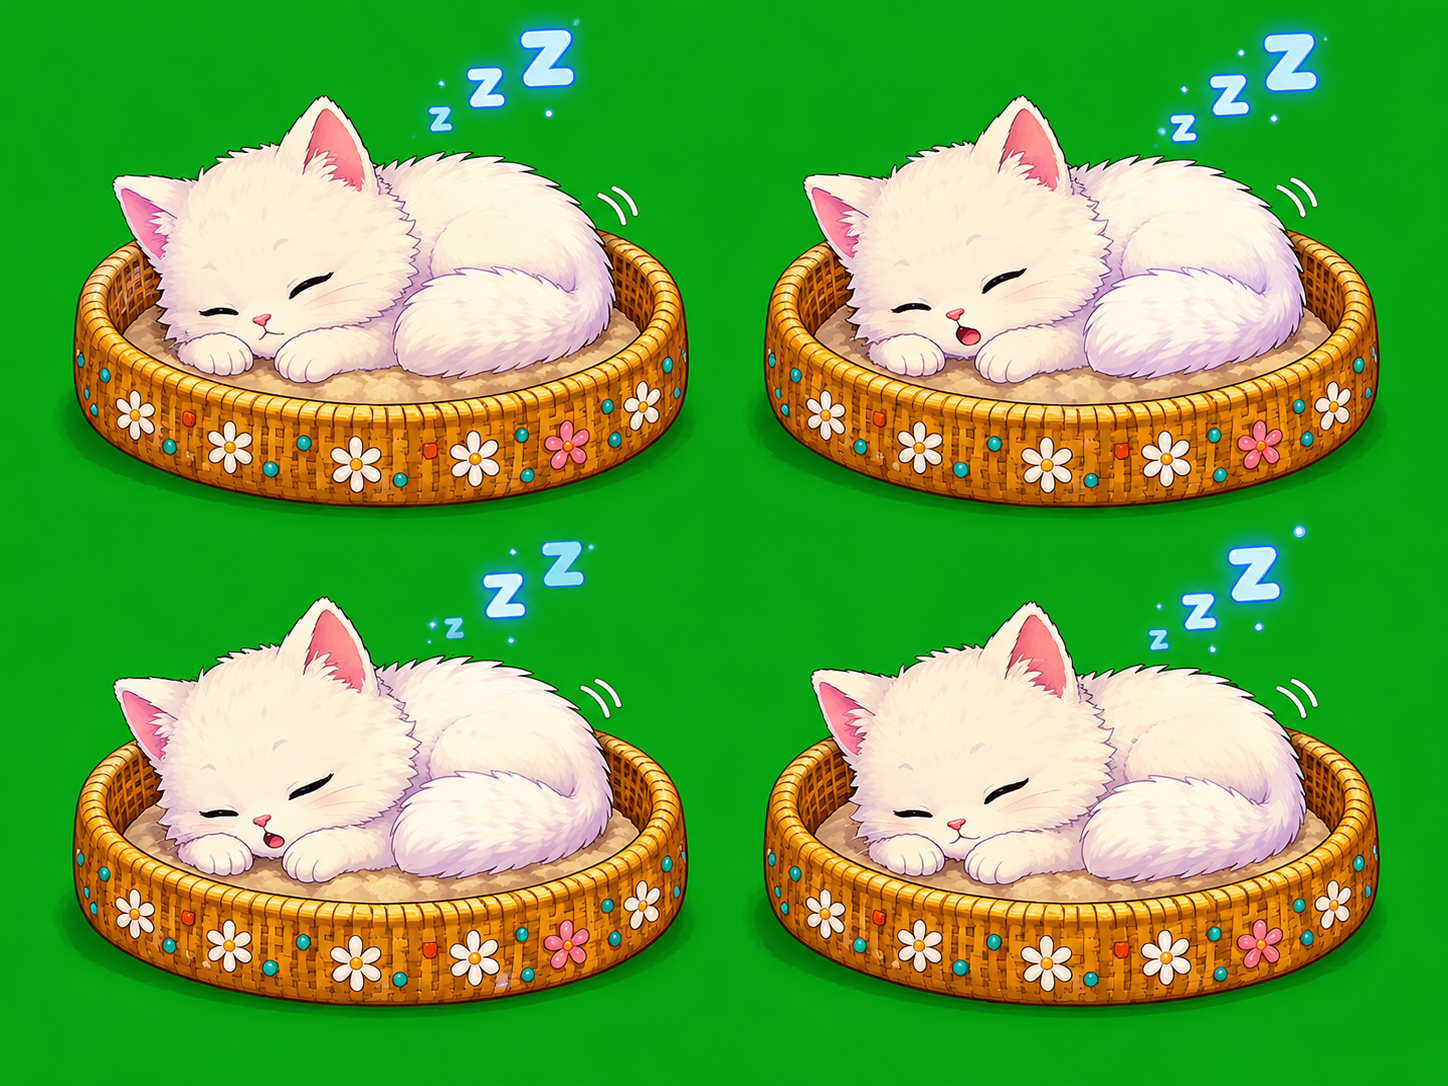
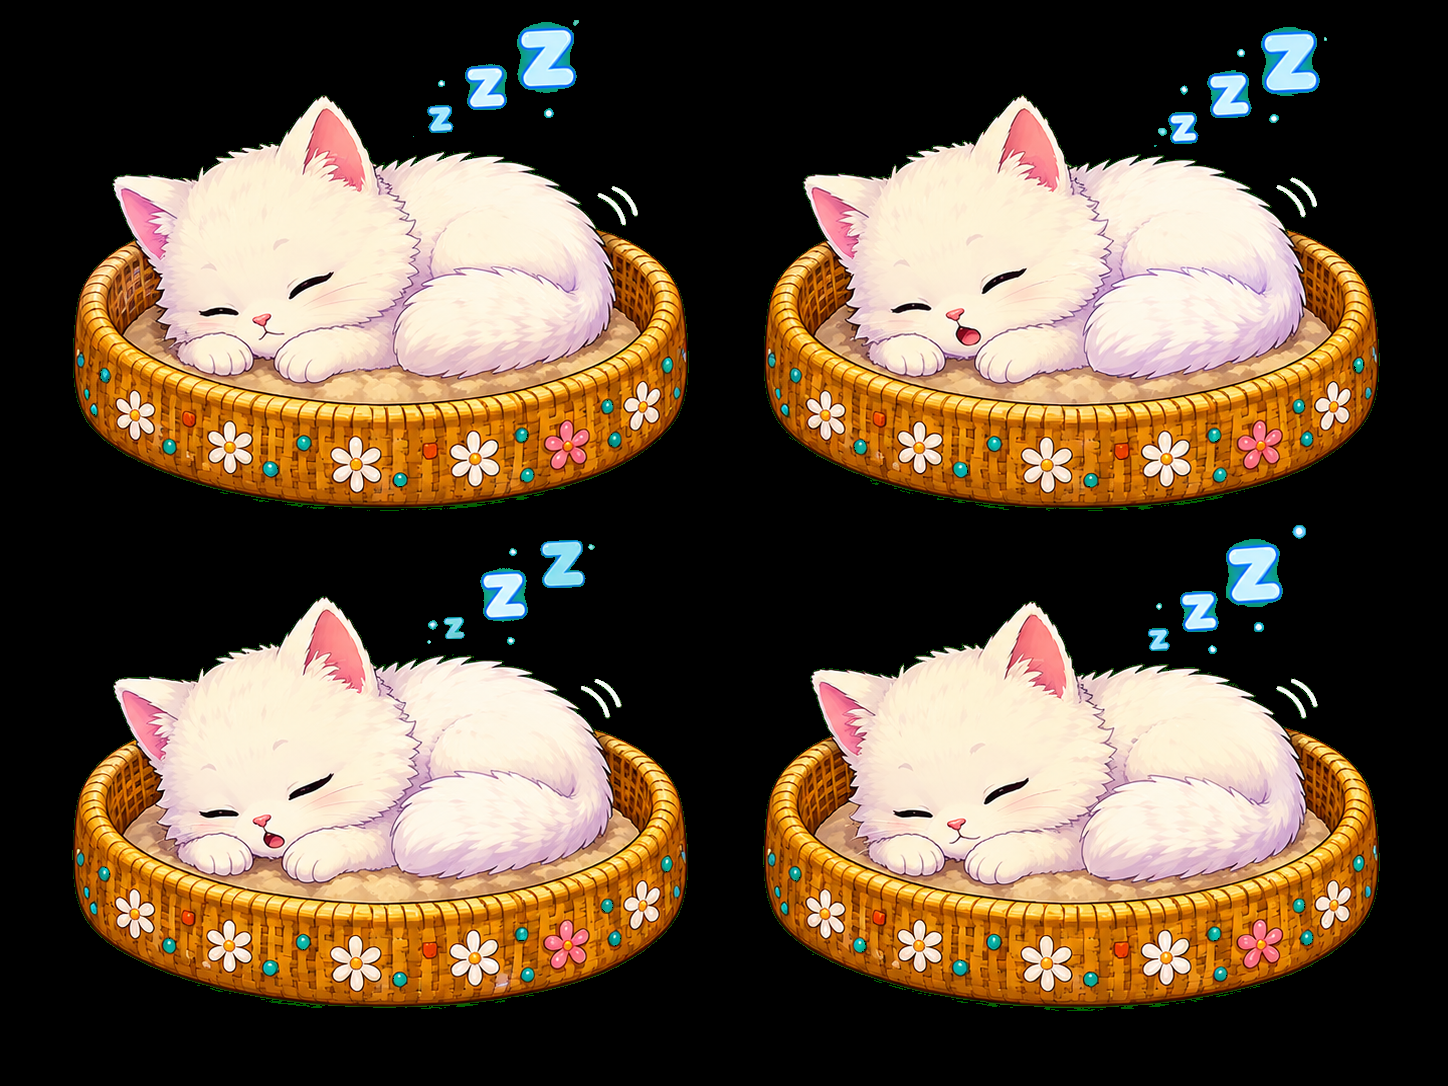
Fix: remove chromaKey JS (caused crash), pre-process sleep.png instead
Removed the runtime removeChromaKey function that was crashing the game.
Instead, processed sleep.png offline to have transparent background.

diff --git a/index.html b/index.html
@@ -325,7 +325,7 @@ const spriteConfigs = {
   eat:      { src: 'assets/eat.png', cols: 4, rows: 2, frames: 4, speed: 300, scale: 1.0 },
   drink:    { src: 'assets/drink.png', cols: 4, rows: 2, frames: 4, speed: 300, scale: 1.0 },
   play:     { src: 'assets/play.png', cols: 4, rows: 3, frames: 8, speed: 420, scale: 1.35 },
-  sleep:    { src: 'assets/sleep.png', cols: 2, rows: 2, frames: 2, speed: 800, scale: 1.0, chromaKey: true },
+  sleep:    { src: 'assets/sleep.png', cols: 2, rows: 2, frames: 2, speed: 800, scale: 1.0 },
   walk:     { src: 'assets/walk.png', cols: 4, rows: 2, frames: 4, speed: 180, scale: 1.0 },
   roll:     { src: 'assets/roll.png', cols: 4, rows: 2, frames: 4, speed: 250, scale: 1.0 },
   pickedup: { src: 'assets/pickedup.png', cols: 4, rows: 1, frames: 2, speed: 800, scale: 0.55 },
@@ -360,32 +360,11 @@ function onAssetError(name) {
 bgImg.onload = onAssetLoad;
 bgImg.onerror = () => onAssetError('bg.png');
 
-function removeChromaKey(img) {
-  const c = document.createElement('canvas');
-  c.width = img.width;
-  c.height = img.height;
-  const cx = c.getContext('2d');
-  cx.drawImage(img, 0, 0);
-  const data = cx.getImageData(0, 0, c.width, c.height);
-  const d = data.data;
-  for (let i = 0; i < d.length; i += 4) {
-    const r = d[i], g = d[i+1], b = d[i+2];
-    if (g > 100 && g > r * 1.4 && g > b * 1.4) {
-      d[i+3] = 0;
-    }
-  }
-  cx.putImageData(data, 0, 0);
-  const newImg = new Image();
-  newImg.src = c.toDataURL();
-  return newImg;
-}
-
 Object.entries(spriteConfigs).forEach(([key, cfg]) => {
   const img = new Image();
   img.onload = () => {
-    const finalImg = cfg.chromaKey ? removeChromaKey(img) : img;
     sprites[key] = {
-      img: finalImg,
+      img,
       frameW: img.width / cfg.cols,
       frameH: img.height / cfg.rows,
       cols: cfg.cols,